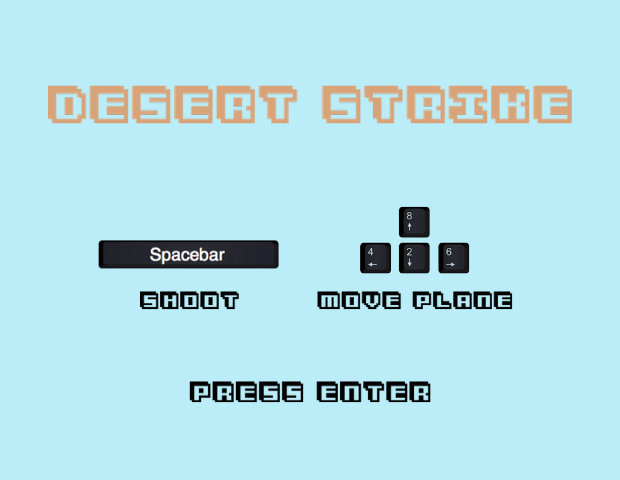
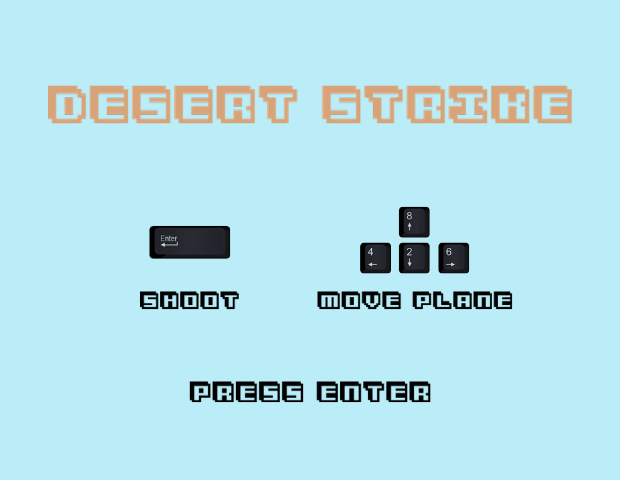
presentation version

Changed region(s): [[0.1532, 0.4688, 0.4597, 0.5625]]

diff --git a/scripts/menu.js b/scripts/menu.js
@@ -1,26 +1,28 @@
 class Menu {
   constructor(game) {
     this.game = game;
-    this.screen = 'menu';
+    this.screen = "menu";
     this.image = new Image();
-    this.image.src = 'images/menu.png';
+    this.image.src = "images/menu1.png";
     this.setKeyboardEventListeners();
   }
 
   draw() {
-    window.addEventListener('load', event => {
+    window.addEventListener("load", event => {
+      this.game.context.fillStyle = "red";
+      this.game.context.fillRect(0, 0, 620, 480);
       this.game.context.drawImage(this.image, 0, 0, 620, 480);
     });
-    console.log('menu drawing');
+    console.log("menu drawing");
   }
 
   setKeyboardEventListeners() {
-    window.addEventListener('keydown', event => {
+    window.addEventListener("keydown", event => {
       switch (event.keyCode) {
         case 13:
-          if (this.screen === 'menu') {
+          if (this.screen === "menu") {
             this.game.gameIsRunning = true;
-            this.draw();
+            this.game.reset();
           }
           break;
       }

diff --git a/scripts/enemy.js b/scripts/enemy.js
@@ -3,7 +3,7 @@
 class Enemy extends GameObject {
   constructor(game, position, direction, maxBoundaries) {
     super();
-
+    this.game = game;
     this.position = position;
     this.direction = direction;
     this.size.x = 40; //added
@@ -12,9 +12,8 @@ class Enemy extends GameObject {
     this.speed = 3;
 
     this.image = new Image();
-    this.image.src = 'images/foe.png';
+    this.image.src = "images/foe.png";
     this.maxBoundaries = maxBoundaries;
-    this.game = game;
   }
 
   update(deltaTime) {
